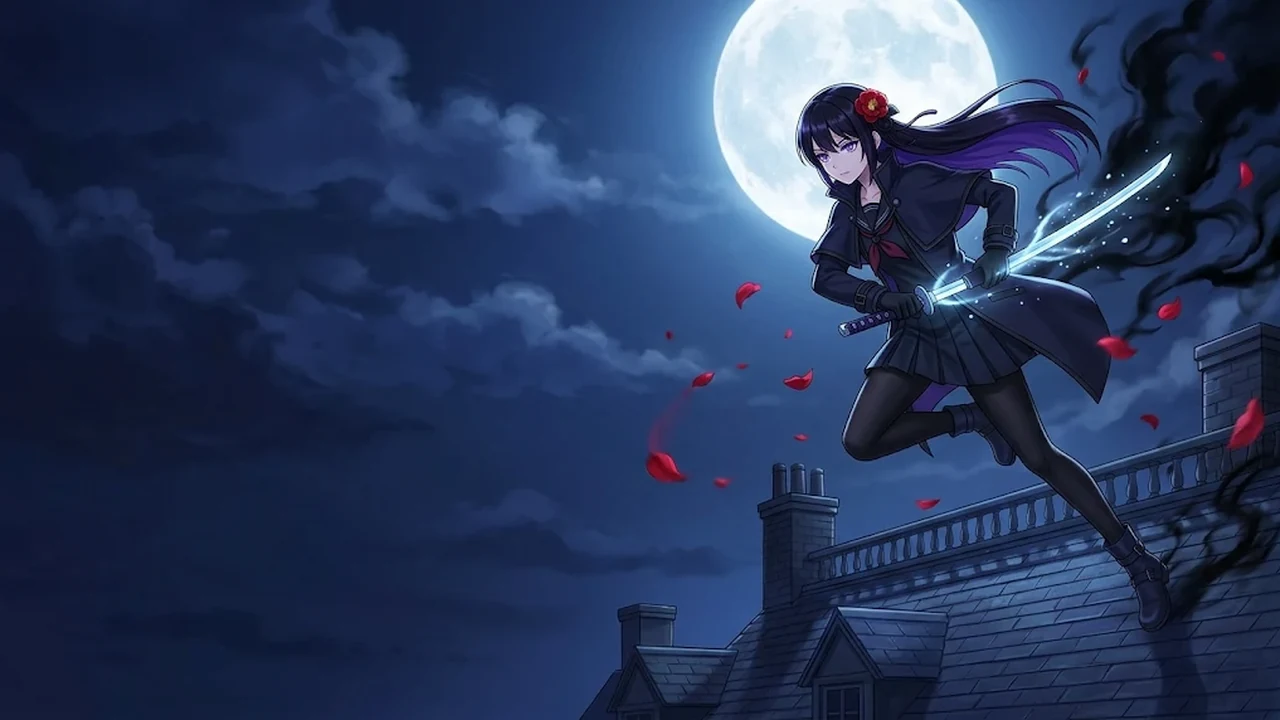
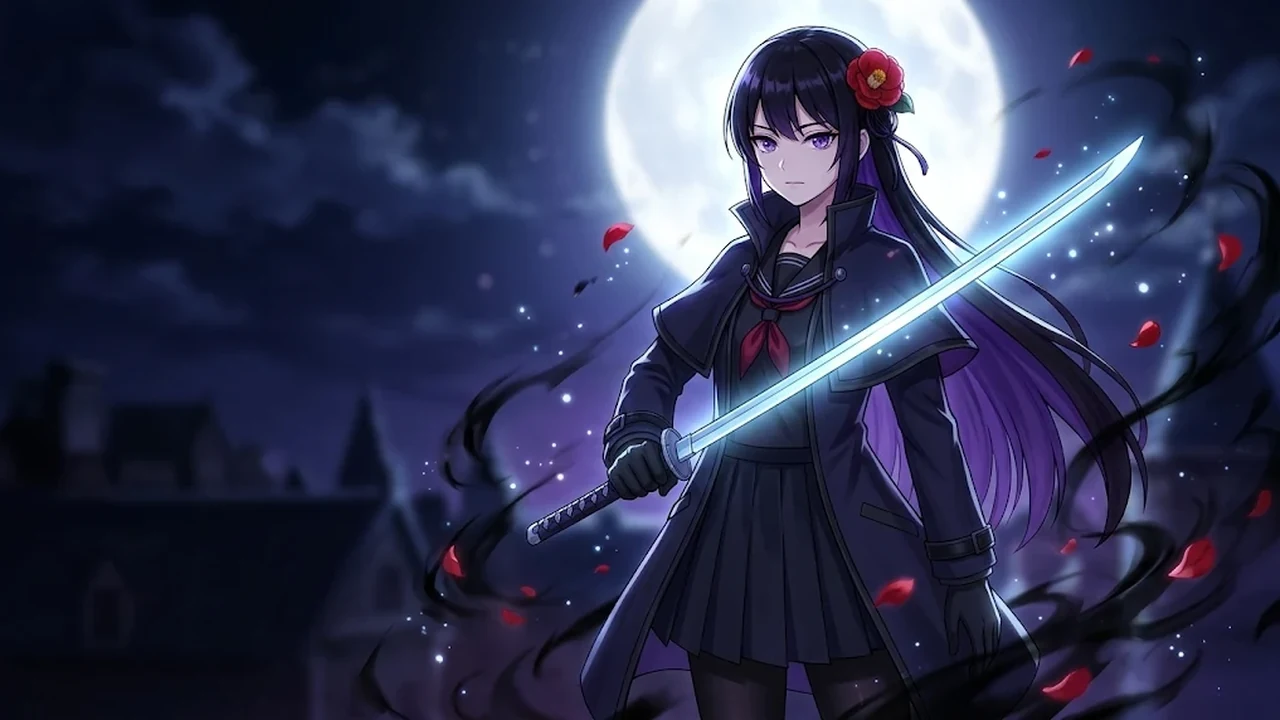
ツバキの1枚絵を、キャラが大きく目立つ絵に差しかえる（Gemini で描き直し）。横長の画面では頭を残して下を切る

diff --git a/src/ui/menus.css b/src/ui/menus.css
@@ -608,7 +608,7 @@
   width: 100%;
   height: 100%;
   object-fit: cover;
-  object-position: 50% 20%; /* 横に長い画面では上下が切れるので、顔のある上のほうを残す */
+  object-position: 50% 0%; /* 横に長い画面では上下が切れるので、顔のある上を残して下を切る */
   animation: zoomin 1.2s ease-out;
 }
 .g5.has-img .g5art {

diff --git a/docs/image-ai-trial.md b/docs/image-ai-trial.md
@@ -113,6 +113,22 @@ character on right side, dark empty space bottom left
 - 次は：NovelAI は横長＋設定画を Character Reference に入れてもう一度。Gemini は「人物を右に、左下は暗い空だけ」と言い直す。
 - 文の直し：NovelAI は `black shadows spreading like wings` をやめて `black smoke, shadow tendrils` にし、`looking at viewer, visible eyes` を足す。
 
+## 3.6 いま使っている指示文（Gemini、キャラを大きく）
+
+ユーザーの希望「キャラがメインで目立つように」で描き直した。同じ会話で設定画を作ってから送る。★5 の1枚絵は、この形を見本にする。
+
+```
+Redraw it again so that Tsubaki is clearly the main subject and stands out. Keep her face, hairstyle, hair colors,
+violet eyes, camellia ornament, outfit and glowing katana exactly the same as the design sheet. Landscape 16:9.
+Close-up, cowboy shot (from mid-thigh up): she fills about 80% of the frame height, placed center-right, facing the viewer
+with a confident, cool look, eyes clearly visible, holding the glowing katana diagonally across the frame.
+Strong moonlight rim light on her hair and coat edges so she pops out from the background; background is a blurred night sky
+with a big full moon behind her head and soft bokeh, low detail. Black smoke and shadow tendrils curl around her
+(not feathers, not wings). Keep the lower-left corner darker and simple (space for name text), but do not make her small.
+Purple and deep blue palette with red accents from the camellia and a few petals. High-quality anime gacha splash art.
+No text, no logo, no watermark.
+```
+
 ## 4. ゲームに入れるときの決まり（Claude がする）
 
 - 置き場所：`public/art/gacha/<キャラのid>.webp`（ツバキなら `tsubaki.webp`）。

diff --git a/docs/credits.md b/docs/credits.md
@@ -6,4 +6,4 @@
 
 | ファイル | 何の絵 | 作ったAI | 作った日 | 見本 | メモ |
 |---|---|---|---|---|---|
-| public/art/gacha/tsubaki.webp | ツバキ（★5）がガチャで当たったときの絵 | Google Gemini の画像（Nano Banana） | 2026-11-20 | 同じ会話で Gemini が文から描いた設定画 | 1024×572 を 1280×720 にそろえた。目に見えない透かし（SynthID）入り。指示文は docs/image-ai-trial.md |
+| public/art/gacha/tsubaki.webp | ツバキ（★5）がガチャで当たったときの絵 | Google Gemini の画像（Nano Banana） | 2026-11-20 | 同じ会話で Gemini が文から描いた設定画 | 2回目（キャラを大きく）。1024×572 を 1280×720 にそろえた。目に見えない透かし（SynthID）入り。指示文は docs/image-ai-trial.md |
